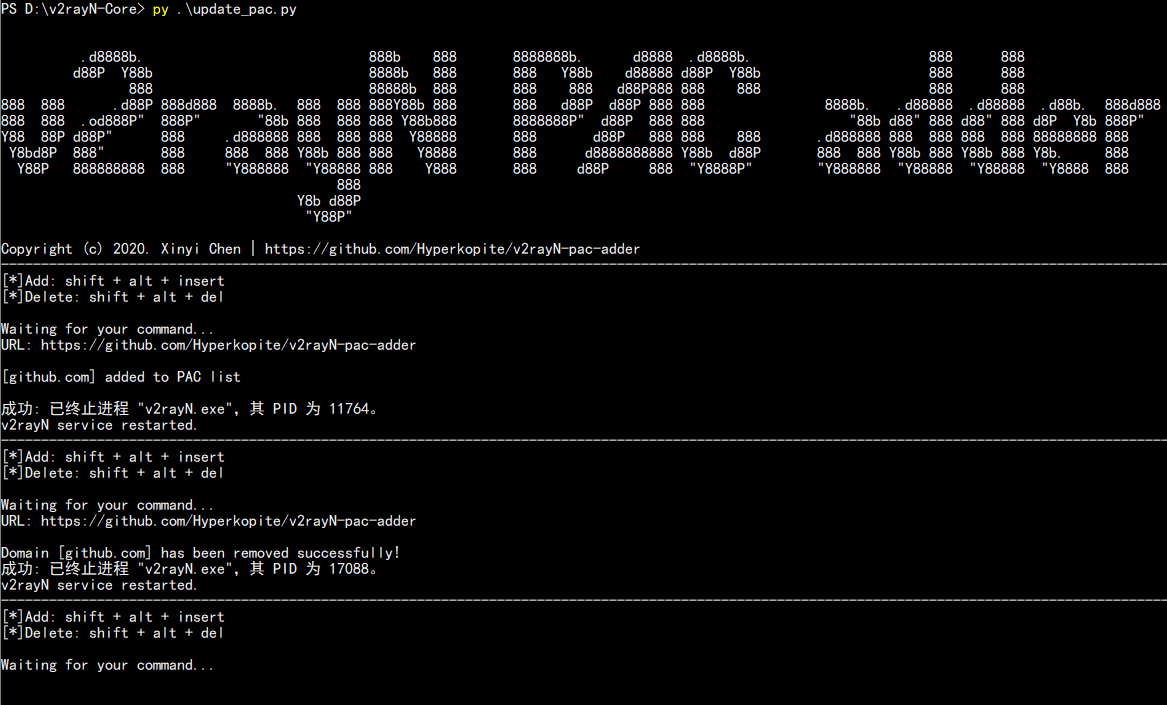
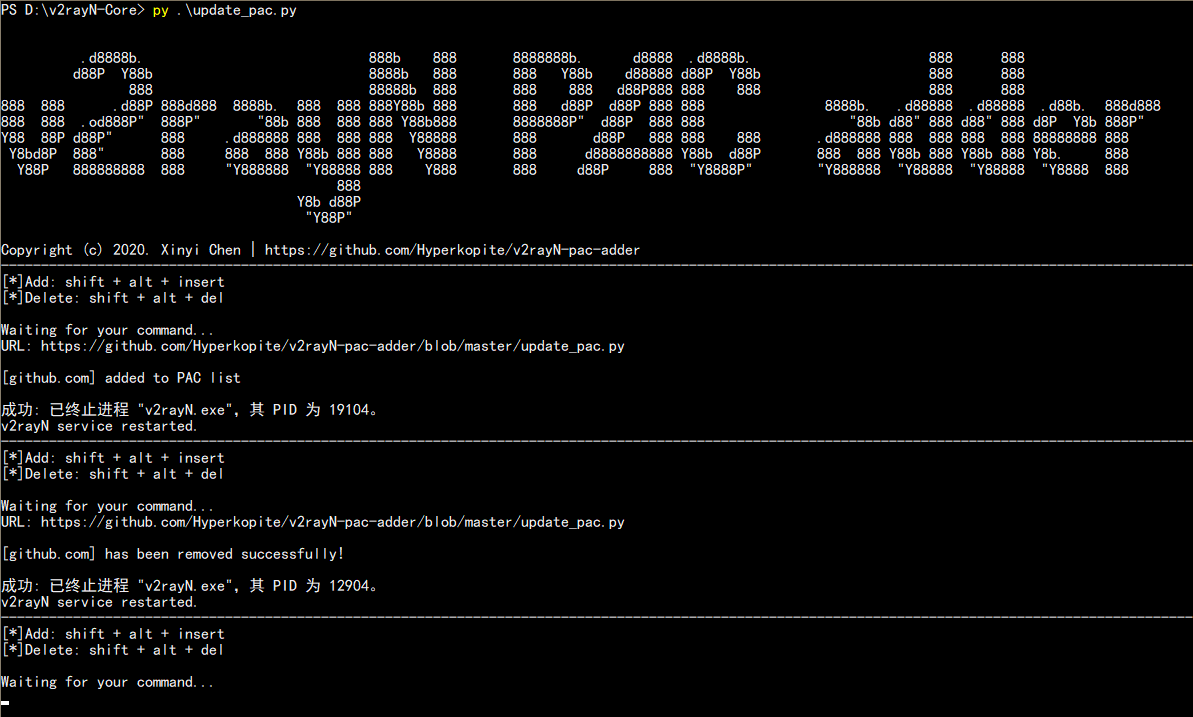
Add files via upload

diff --git a/update_pac.py b/update_pac.py
@@ -64,7 +64,7 @@ def add_to_pac():
                 cntr_line += 1
         f_pac.writelines(lines)
     if is_exist:
-        print('\nDomain [' + domain + '] already exists!')
+        print('\n[' + domain + '] already exists!')
     else:
         print('\n[' + domain + '] added to PAC list\n')
         reboot_server_process()
@@ -90,7 +90,7 @@ def del_from_pac():
                 match = match.group().strip('\"')
                 if match != '|' and (match.find(domain) != -1 or match == domain):
                     lines[cntr_line] = ''
-                    print('\nDomain [' + match + '] has been removed successfully!\n')
+                    print('\n[' + match + '] has been removed successfully!\n')
                     is_exist = True
             cntr_line += 1
         f_pac.writelines(lines)
